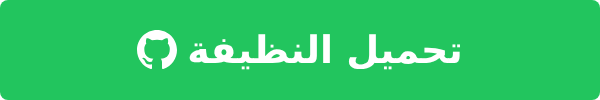
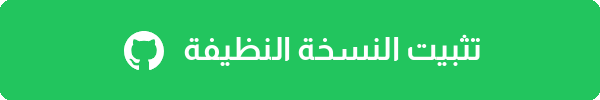
docs: relabel Arabic download buttons as "Install" instead of "Download"
Regenerate docs/images/download_clean_ar.png and download_plus_ar.png
with corrected text: "تثبيت النسخة النظيفة" (Install the Clean version)
and "تثبيت نسخة بلس" (Install Plus version), matching the "نسخة" wording
already used elsewhere in the Arabic README. Update the matching alt text.

diff --git a/README.md b/README.md
@@ -388,9 +388,9 @@ If you like the project and want to support it, you can buy me a coffee on Ko-fi
 </div>
 
 <p>
-<a href="https://github.com/snooptiger9/bkey-keyboard/raw/main/release/bkey-latest.apk"><img src="docs/images/download_clean_ar.png" alt="تحميل النسخة النظيفة" width="300" height="50"></a>
+<a href="https://github.com/snooptiger9/bkey-keyboard/raw/main/release/bkey-latest.apk"><img src="docs/images/download_clean_ar.png" alt="تثبيت النسخة النظيفة" width="300" height="50"></a>
 &nbsp;
-<a href="https://github.com/snooptiger9/bkey-keyboard/raw/main/release/bkey-full-latest.apk"><img src="docs/images/download_plus_ar.png" alt="تحميل نسخة بلس" width="300" height="50"></a>
+<a href="https://github.com/snooptiger9/bkey-keyboard/raw/main/release/bkey-full-latest.apk"><img src="docs/images/download_plus_ar.png" alt="تثبيت نسخة بلس" width="300" height="50"></a>
 </p>
 
 **النسخة النظيفة** ما تطلب إلا أقل صلاحيات يحتاجها أي كيبورد للكتابة فقط (بدون إنترنت، بدون صور/تخزين، بدون رسائل) — كل ميزات الجدول فوق غير متوفرة فيها إلا اقتراح النص المنسوخ، لأن الباقي يحتاج إنترنت أو صلاحية صور.
